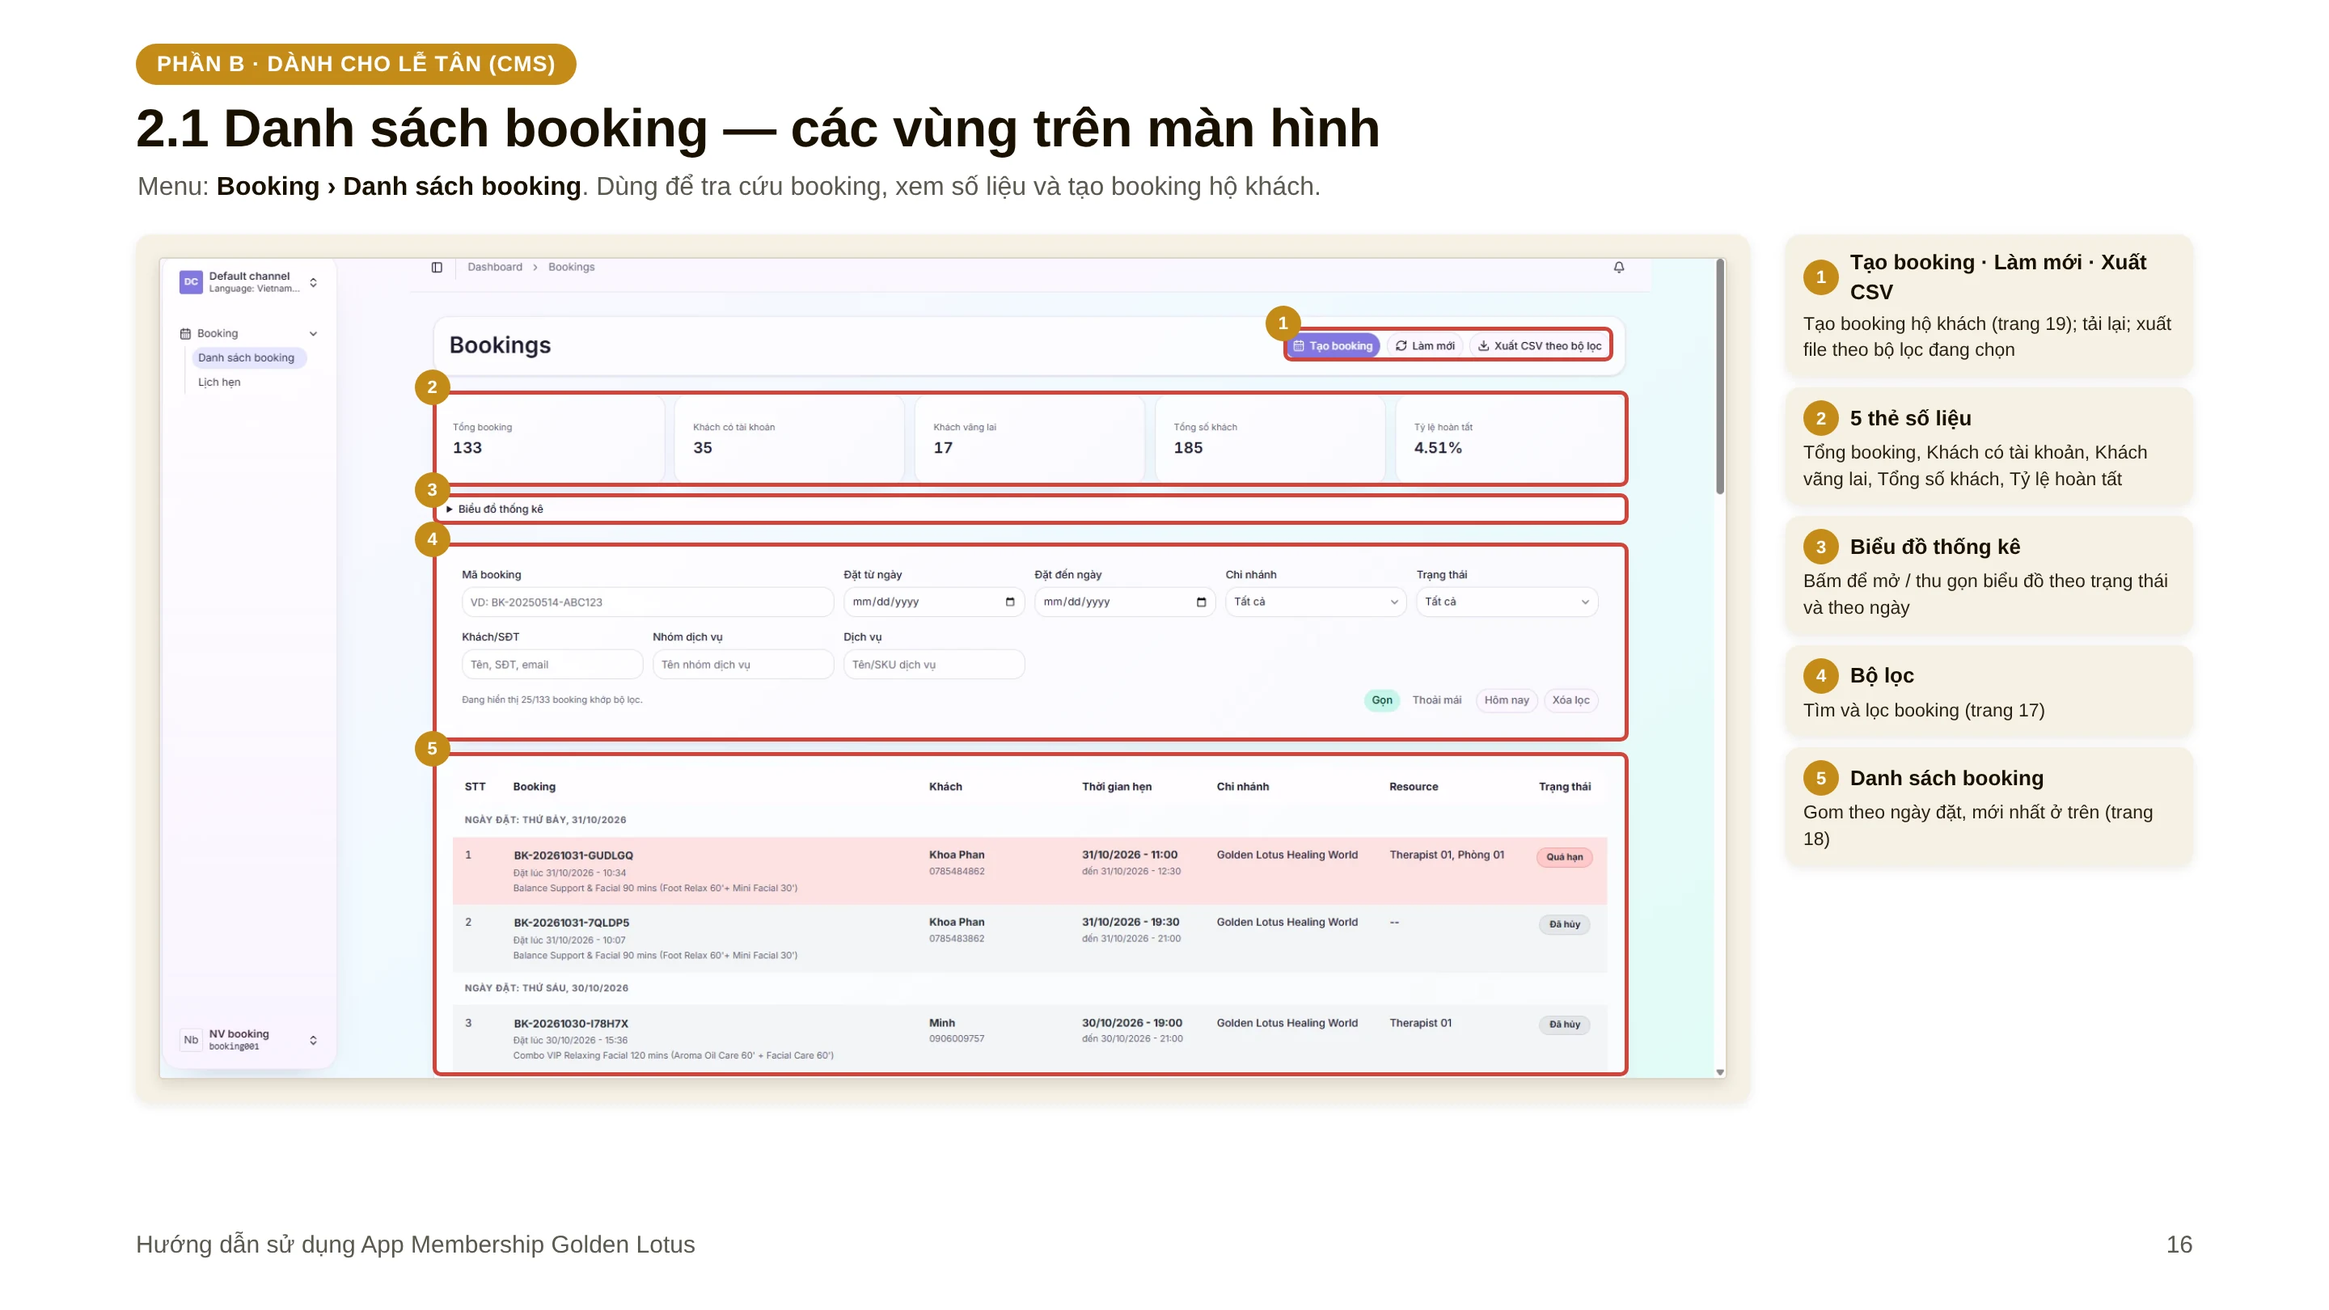
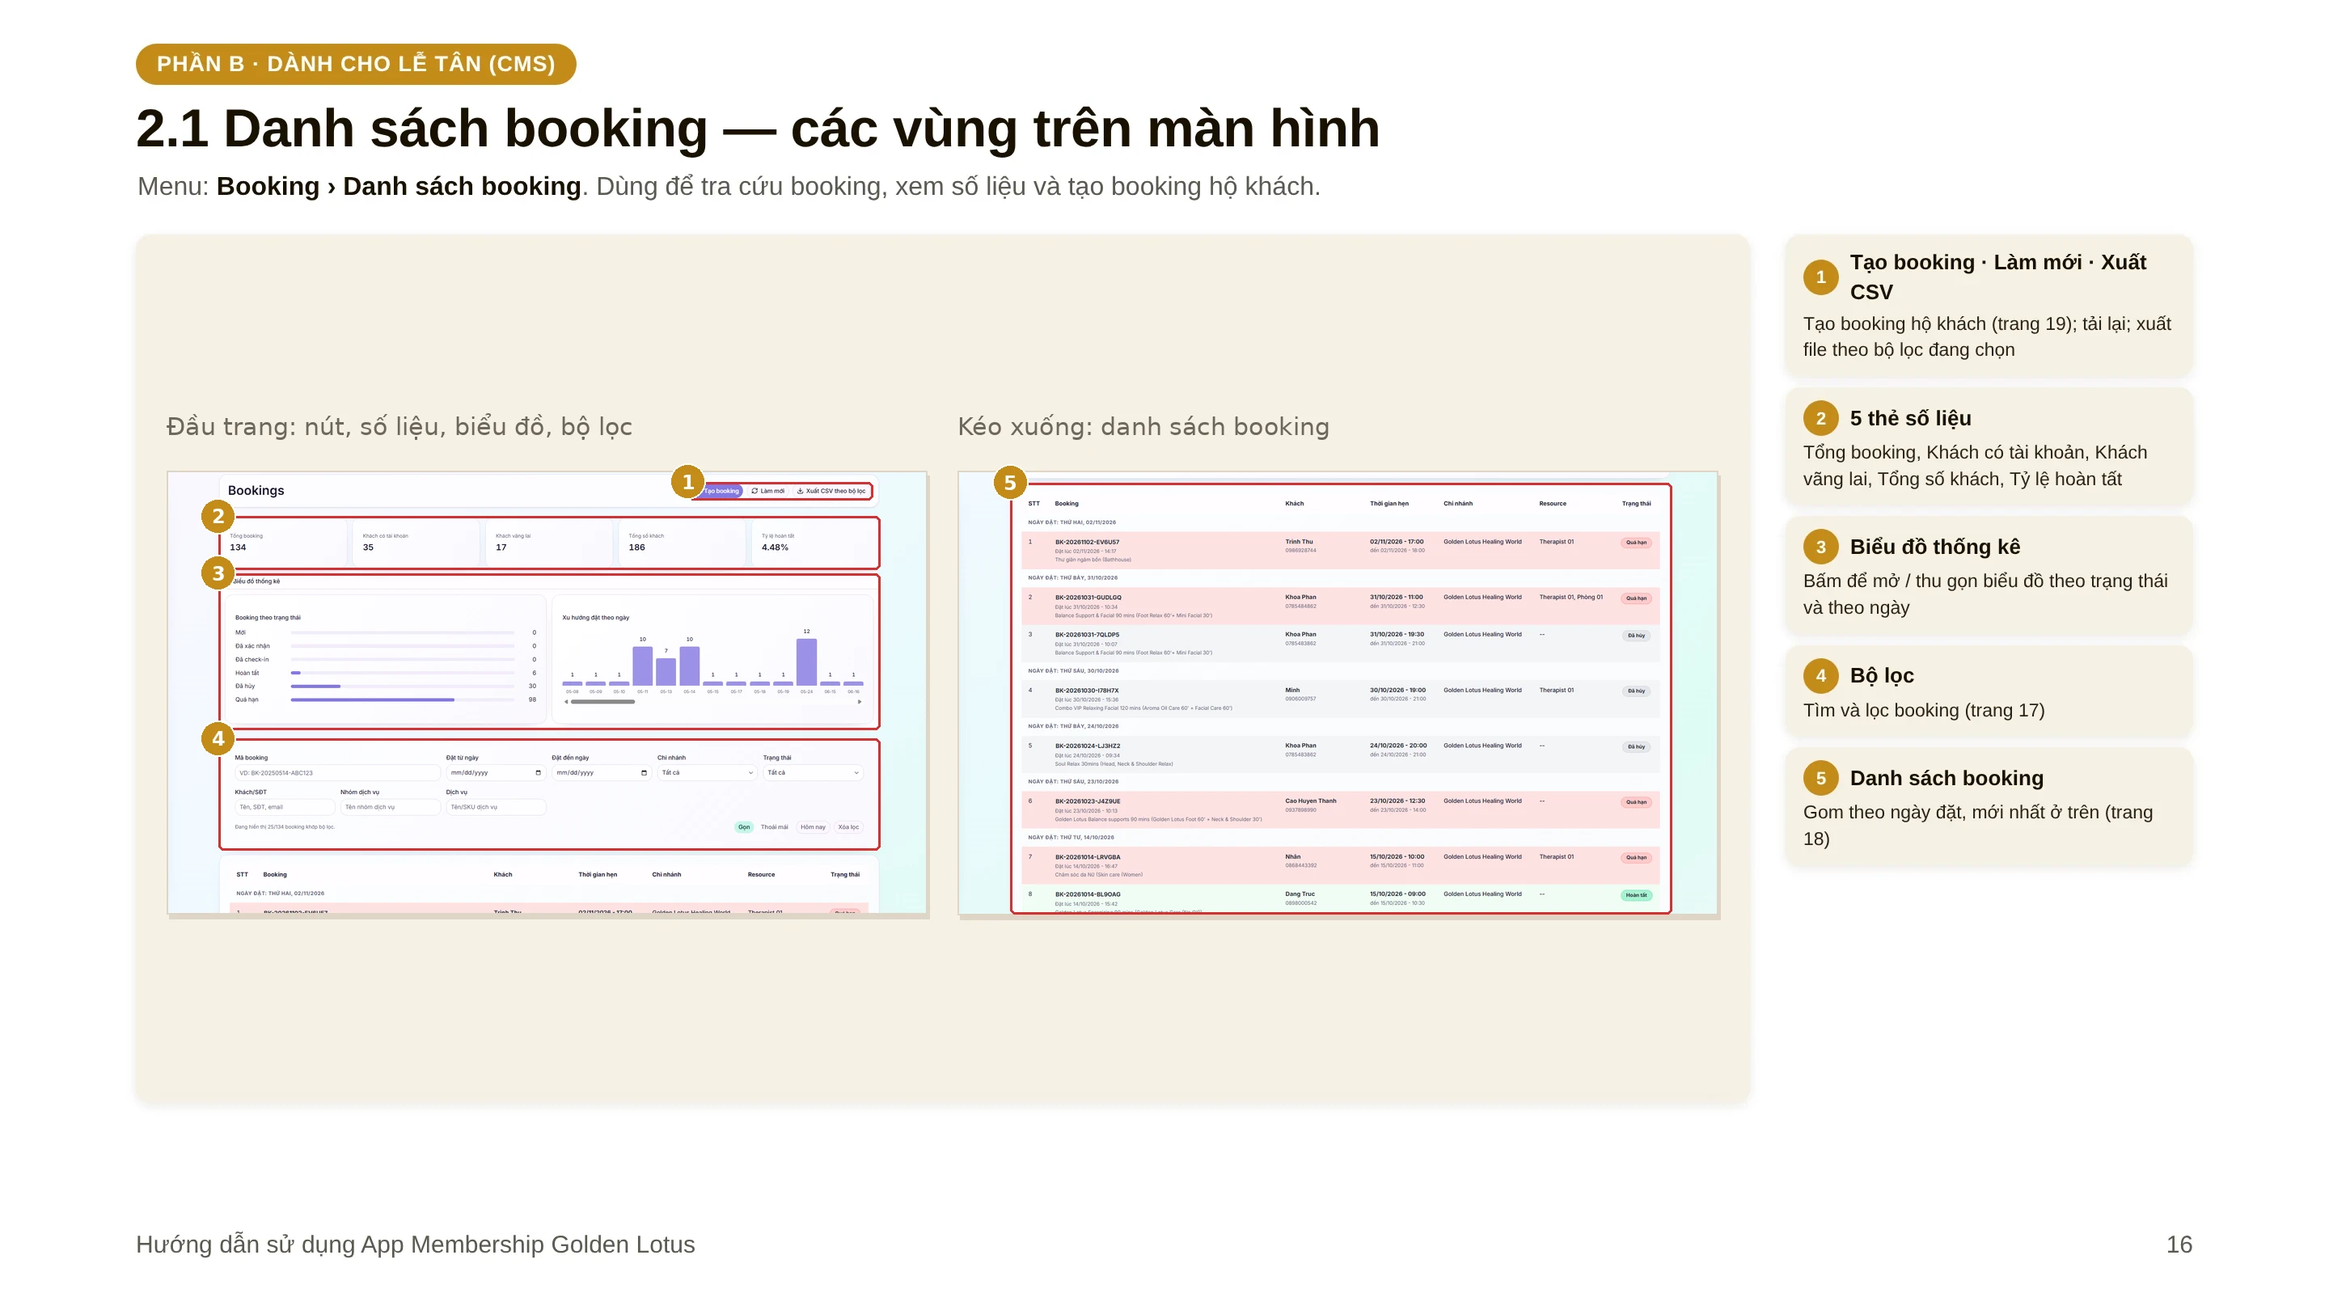
Slide 16: thay ảnh màn hình Danh sách booking bằng 2 ảnh mới (đầu trang + danh sách)
Claude-Session: https://claude.ai/code/session_01RoCCcE5aUAib2frrCe3aCP

Changed region(s): [[0.0625, 0.1852, 0.75, 0.8333]]

diff --git a/membership-guide/src/app.html b/membership-guide/src/app.html
@@ -60,7 +60,7 @@ const NM=["Đăng ký tài khoản / Đăng nhập","Tìm lại mật khẩu","T
 const TO=[2,4,5,6,7,9,11,12,13,14,15,18,19,21,30,25,26];
 const CARDS=[[5.83,20.56,16.77,18.52],[23.75,20.56,16.77,18.52],[41.67,20.56,16.77,18.52],[59.58,20.56,16.77,18.52],[77.5,20.56,16.77,18.52],[5.83,40.74,16.77,18.52],[23.75,40.74,16.77,18.52],[41.67,40.74,16.77,18.52],[59.58,40.74,16.77,18.52],[5.83,67.96,9.0,18.52],[15.83,67.96,9.0,18.52],[25.83,67.96,9.0,18.52],[35.83,67.96,9.0,18.52],[45.83,67.96,9.0,18.52],[55.83,67.96,9.0,18.52],[72.92,67.96,10.07,18.52],[84.1,67.96,10.07,18.52]];
 const HOT=NM.map((n,i)=>({l:CARDS[i][0],t:CARDS[i][1],w:CARDS[i][2],h:CARDS[i][3],to:TO[i],name:n}));
-const ZONES={"2":[[5.1,28.89,13.09,47.55],[20.44,30.07,13.09,45.19],[35.78,28.65,13.09,48.03],[51.11,36.07,13.09,33.19],[66.45,29.71,13.09,45.92],[81.79,29.75,13.09,45.84]],"3":[[10.98,26.93,15.01,54.53],[42.47,26.93,15.04,54.53],[74.51,26.93,13.96,54.53]],"4":[[5.1,36.35,10.9,32.63],[18.25,37.0,10.9,31.33],[31.39,36.99,10.9,31.36],[44.54,35.58,10.9,34.17],[57.69,39.79,10.9,25.76],[70.83,38.88,10.9,27.57],[83.98,35.28,10.9,34.78]],"5":[[5.9,26.93,14.55,53.47],[23.51,46.94,16.16,13.46],[41.91,32.44,16.16,42.45],[60.32,42.27,16.16,22.8],[79.84,26.93,13.92,53.47]],"6":[[11.09,26.93,14.79,54.53],[41.83,26.93,16.31,54.53],[68.21,37.44,26.55,33.52]],"7":[[5.1,32.86,10.9,39.62],[18.25,37.44,10.9,30.45],[31.39,34.51,10.9,36.32],[44.54,31.95,10.9,41.44],[59.23,26.93,7.81,51.47],[70.83,30.18,10.9,44.98],[83.98,28.28,10.9,48.78]],"8":[[7.41,26.93,15.23,53.47],[28.41,36.35,19.86,34.64],[51.71,31.14,19.86,45.06],[75.96,26.93,17.97,53.47]],"9":[[11.04,26.93,14.9,54.53],[42.62,26.93,14.74,54.53],[68.21,34.78,26.55,38.84]],"10":[[5.1,35.46,10.9,39.48],[18.25,35.15,10.9,40.11],[31.39,39.31,10.9,31.78],[44.54,42.79,10.9,24.82],[57.69,35.05,10.9,40.3],[70.83,39.31,10.9,31.78],[83.98,42.79,10.9,24.82]],"11":[[10.96,26.93,15.05,54.53],[42.43,26.93,15.11,54.53],[68.21,39.52,26.55,29.35]],"12":[[11.12,26.93,14.74,54.53],[42.28,26.93,15.42,54.53],[73.98,26.93,15.01,54.53]],"13":[[7.83,26.93,21.32,54.53],[39.73,26.93,20.51,54.53],[73.98,26.93,15.01,54.53]],"14":[[32.4,19.63,65.97,60.3,"lt_cms.webp",1836,942]],"15":[[6.81,19.63,67.36,62.76,"lt_ds.webp",1862,974]],"16":[[6.81,19.63,84.72,25.03,"lt_filter.webp",1420,234]],"17":[[6.81,19.63,76.39,37.38,"lt_table.webp",1420,389]],"18":[[6.81,19.63,34.03,30.15,"b_bk3.webp",1920,953],[6.81,57.31,34.03,30.15,"b_bk4.webp",1920,953]],"19":[[6.81,19.63,67.36,62.96,"lt_lh.webp",1854,973]],"20":[[6.81,19.63,64.03,11.6,"lh_top.webp",920,92],[6.81,38.89,64.03,40.93,"lh_grid.webp",1340,480]],"21":[[5.83,24.26,52.6,48.57],[60.42,63.89,19.79,25.7]],"22":[[5.83,24.26,54.69,56.16]],"23":[[5.83,24.26,61.46,47.39]],"24":[[6.81,19.63,40.97,36.28,"b_bk5.webp",1920,953],[51.67,19.63,40.97,36.28,"b_bk6.webp",1920,953]],"25":[[27.22,19.63,65.97,59.97,"kt_full.webp",1852,945]],"26":[[6.81,19.63,67.36,61.23,"kt_full.webp",1852,945]],"27":[[6.81,19.63,86.39,18.48,"kt_cards.webp",1430,170],[6.81,42.8,86.39,14.4,"kt_filter.webp",1430,132]],"28":[[6.81,19.63,84.72,42.65,"kt_table.webp",1390,392]],"29":[[6.81,19.63,84.72,42.65,"kt_table.webp",1390,392]],"31":[[7.08, 20.25, 18.06, 53.58, "pos_ph_00.jpg", 425, 652], [52.01, 20.25, 18.06, 53.58, "pos_ph_01.jpg", 416, 630]],"32":[[6.94, 20.0, 26.18, 40.74, "pos_ph_02.jpg", 478, 532], [36.88, 20.0, 26.18, 40.74, "pos_use_point_full.jpg", 1910, 1085], [66.81, 20.0, 26.18, 40.74, "pos_ph_03.jpg", 409, 655]],"33":[[6.94, 20.0, 26.18, 40.74, "pos_ph_04.jpg", 558, 868], [36.88, 20.0, 26.18, 40.74, "pos_ph_05.jpg", 552, 635], [66.81, 20.0, 26.18, 40.74, "pos_ph_06.jpg", 445, 654]],"36":[[6.94, 20.0, 26.18, 40.74, "pos_ph_07.jpg", 425, 652], [36.88, 20.0, 26.18, 40.74, "pos_ph_08.jpg", 416, 630], [66.81, 20.0, 26.18, 40.74, "pos_ph_09.jpg", 1758, 868]],"37":[[6.94, 20.0, 26.18, 40.74, "pos_ph_10.jpg", 506, 848], [36.88, 20.0, 26.18, 40.74, "pos_ph_11.jpg", 987, 862], [66.81, 20.0, 26.18, 40.74, "pos_ph_12.jpg", 2048, 939]],"38":[[6.94, 20.0, 33.89, 37.04, "pos_ph_13.jpg", 935, 646]],"39":[[6.67, 19.51, 34.44, 61.23, "pos_huy_phieu.jpg", 1000, 975]]};
+const ZONES={"2":[[5.1,28.89,13.09,47.55],[20.44,30.07,13.09,45.19],[35.78,28.65,13.09,48.03],[51.11,36.07,13.09,33.19],[66.45,29.71,13.09,45.92],[81.79,29.75,13.09,45.84]],"3":[[10.98,26.93,15.01,54.53],[42.47,26.93,15.04,54.53],[74.51,26.93,13.96,54.53]],"4":[[5.1,36.35,10.9,32.63],[18.25,37.0,10.9,31.33],[31.39,36.99,10.9,31.36],[44.54,35.58,10.9,34.17],[57.69,39.79,10.9,25.76],[70.83,38.88,10.9,27.57],[83.98,35.28,10.9,34.78]],"5":[[5.9,26.93,14.55,53.47],[23.51,46.94,16.16,13.46],[41.91,32.44,16.16,42.45],[60.32,42.27,16.16,22.8],[79.84,26.93,13.92,53.47]],"6":[[11.09,26.93,14.79,54.53],[41.83,26.93,16.31,54.53],[68.21,37.44,26.55,33.52]],"7":[[5.1,32.86,10.9,39.62],[18.25,37.44,10.9,30.45],[31.39,34.51,10.9,36.32],[44.54,31.95,10.9,41.44],[59.23,26.93,7.81,51.47],[70.83,30.18,10.9,44.98],[83.98,28.28,10.9,48.78]],"8":[[7.41,26.93,15.23,53.47],[28.41,36.35,19.86,34.64],[51.71,31.14,19.86,45.06],[75.96,26.93,17.97,53.47]],"9":[[11.04,26.93,14.9,54.53],[42.62,26.93,14.74,54.53],[68.21,34.78,26.55,38.84]],"10":[[5.1,35.46,10.9,39.48],[18.25,35.15,10.9,40.11],[31.39,39.31,10.9,31.78],[44.54,42.79,10.9,24.82],[57.69,35.05,10.9,40.3],[70.83,39.31,10.9,31.78],[83.98,42.79,10.9,24.82]],"11":[[10.96,26.93,15.05,54.53],[42.43,26.93,15.11,54.53],[68.21,39.52,26.55,29.35]],"12":[[11.12,26.93,14.74,54.53],[42.28,26.93,15.42,54.53],[73.98,26.93,15.01,54.53]],"13":[[7.83,26.93,21.32,54.53],[39.73,26.93,20.51,54.53],[73.98,26.93,15.01,54.53]],"14":[[32.4,19.63,65.97,60.3,"lt_cms.webp",1836,942]],"15":[[7.15,35.93,32.64,33.83,"lt_ds1.webp",1686,1004],[41.11,35.93,32.64,33.83,"lt_ds2.webp",1687,1006]],"16":[[6.81,19.63,84.72,25.03,"lt_filter.webp",1420,234]],"17":[[6.81,19.63,76.39,37.38,"lt_table.webp",1420,389]],"18":[[6.81,19.63,34.03,30.15,"b_bk3.webp",1920,953],[6.81,57.31,34.03,30.15,"b_bk4.webp",1920,953]],"19":[[6.81,19.63,67.36,62.96,"lt_lh.webp",1854,973]],"20":[[6.81,19.63,64.03,11.6,"lh_top.webp",920,92],[6.81,38.89,64.03,40.93,"lh_grid.webp",1340,480]],"21":[[5.83,24.26,52.6,48.57],[60.42,63.89,19.79,25.7]],"22":[[5.83,24.26,54.69,56.16]],"23":[[5.83,24.26,61.46,47.39]],"24":[[6.81,19.63,40.97,36.28,"b_bk5.webp",1920,953],[51.67,19.63,40.97,36.28,"b_bk6.webp",1920,953]],"25":[[27.22,19.63,65.97,59.97,"kt_full.webp",1852,945]],"26":[[6.81,19.63,67.36,61.23,"kt_full.webp",1852,945]],"27":[[6.81,19.63,86.39,18.48,"kt_cards.webp",1430,170],[6.81,42.8,86.39,14.4,"kt_filter.webp",1430,132]],"28":[[6.81,19.63,84.72,42.65,"kt_table.webp",1390,392]],"29":[[6.81,19.63,84.72,42.65,"kt_table.webp",1390,392]],"31":[[7.08, 20.25, 18.06, 53.58, "pos_ph_00.jpg", 425, 652], [52.01, 20.25, 18.06, 53.58, "pos_ph_01.jpg", 416, 630]],"32":[[6.94, 20.0, 26.18, 40.74, "pos_ph_02.jpg", 478, 532], [36.88, 20.0, 26.18, 40.74, "pos_use_point_full.jpg", 1910, 1085], [66.81, 20.0, 26.18, 40.74, "pos_ph_03.jpg", 409, 655]],"33":[[6.94, 20.0, 26.18, 40.74, "pos_ph_04.jpg", 558, 868], [36.88, 20.0, 26.18, 40.74, "pos_ph_05.jpg", 552, 635], [66.81, 20.0, 26.18, 40.74, "pos_ph_06.jpg", 445, 654]],"36":[[6.94, 20.0, 26.18, 40.74, "pos_ph_07.jpg", 425, 652], [36.88, 20.0, 26.18, 40.74, "pos_ph_08.jpg", 416, 630], [66.81, 20.0, 26.18, 40.74, "pos_ph_09.jpg", 1758, 868]],"37":[[6.94, 20.0, 26.18, 40.74, "pos_ph_10.jpg", 506, 848], [36.88, 20.0, 26.18, 40.74, "pos_ph_11.jpg", 987, 862], [66.81, 20.0, 26.18, 40.74, "pos_ph_12.jpg", 2048, 939]],"38":[[6.94, 20.0, 33.89, 37.04, "pos_ph_13.jpg", 935, 646]],"39":[[6.67, 19.51, 34.44, 61.23, "pos_huy_phieu.jpg", 1000, 975]]};
 const SIZES=[148518,242384,443017,373956,424631,517810,395477,518151,401313,393800,597413,375189,449216,393479,329762];
 let IMGS=[];
 const img=document.getElementById('img'),slide=document.getElementById('slide');

diff --git a/membership-guide/src/index.html b/membership-guide/src/index.html
@@ -60,7 +60,7 @@ const NM=["Đăng ký tài khoản / Đăng nhập","Tìm lại mật khẩu","T
 const TO=[2,4,5,6,7,9,11,12,13,14,15,18,19,21,30,25,26];
 const CARDS=[[5.83,20.56,16.77,18.52],[23.75,20.56,16.77,18.52],[41.67,20.56,16.77,18.52],[59.58,20.56,16.77,18.52],[77.5,20.56,16.77,18.52],[5.83,40.74,16.77,18.52],[23.75,40.74,16.77,18.52],[41.67,40.74,16.77,18.52],[59.58,40.74,16.77,18.52],[5.83,67.96,9.0,18.52],[15.83,67.96,9.0,18.52],[25.83,67.96,9.0,18.52],[35.83,67.96,9.0,18.52],[45.83,67.96,9.0,18.52],[55.83,67.96,9.0,18.52],[72.92,67.96,10.07,18.52],[84.1,67.96,10.07,18.52]];
 const HOT=NM.map((n,i)=>({l:CARDS[i][0],t:CARDS[i][1],w:CARDS[i][2],h:CARDS[i][3],to:TO[i],name:n}));
-const ZONES={"2":[[5.1,28.89,13.09,47.55],[20.44,30.07,13.09,45.19],[35.78,28.65,13.09,48.03],[51.11,36.07,13.09,33.19],[66.45,29.71,13.09,45.92],[81.79,29.75,13.09,45.84]],"3":[[10.98,26.93,15.01,54.53],[42.47,26.93,15.04,54.53],[74.51,26.93,13.96,54.53]],"4":[[5.1,36.35,10.9,32.63],[18.25,37.0,10.9,31.33],[31.39,36.99,10.9,31.36],[44.54,35.58,10.9,34.17],[57.69,39.79,10.9,25.76],[70.83,38.88,10.9,27.57],[83.98,35.28,10.9,34.78]],"5":[[5.9,26.93,14.55,53.47],[23.51,46.94,16.16,13.46],[41.91,32.44,16.16,42.45],[60.32,42.27,16.16,22.8],[79.84,26.93,13.92,53.47]],"6":[[11.09,26.93,14.79,54.53],[41.83,26.93,16.31,54.53],[68.21,37.44,26.55,33.52]],"7":[[5.1,32.86,10.9,39.62],[18.25,37.44,10.9,30.45],[31.39,34.51,10.9,36.32],[44.54,31.95,10.9,41.44],[59.23,26.93,7.81,51.47],[70.83,30.18,10.9,44.98],[83.98,28.28,10.9,48.78]],"8":[[7.41,26.93,15.23,53.47],[28.41,36.35,19.86,34.64],[51.71,31.14,19.86,45.06],[75.96,26.93,17.97,53.47]],"9":[[11.04,26.93,14.9,54.53],[42.62,26.93,14.74,54.53],[68.21,34.78,26.55,38.84]],"10":[[5.1,35.46,10.9,39.48],[18.25,35.15,10.9,40.11],[31.39,39.31,10.9,31.78],[44.54,42.79,10.9,24.82],[57.69,35.05,10.9,40.3],[70.83,39.31,10.9,31.78],[83.98,42.79,10.9,24.82]],"11":[[10.96,26.93,15.05,54.53],[42.43,26.93,15.11,54.53],[68.21,39.52,26.55,29.35]],"12":[[11.12,26.93,14.74,54.53],[42.28,26.93,15.42,54.53],[73.98,26.93,15.01,54.53]],"13":[[7.83,26.93,21.32,54.53],[39.73,26.93,20.51,54.53],[73.98,26.93,15.01,54.53]],"14":[[32.4,19.63,65.97,60.3,"lt_cms.webp",1836,942]],"15":[[6.81,19.63,67.36,62.76,"lt_ds.webp",1862,974]],"16":[[6.81,19.63,84.72,25.03,"lt_filter.webp",1420,234]],"17":[[6.81,19.63,76.39,37.38,"lt_table.webp",1420,389]],"18":[[6.81,19.63,34.03,30.15,"b_bk3.webp",1920,953],[6.81,57.31,34.03,30.15,"b_bk4.webp",1920,953]],"19":[[6.81,19.63,67.36,62.96,"lt_lh.webp",1854,973]],"20":[[6.81,19.63,64.03,11.6,"lh_top.webp",920,92],[6.81,38.89,64.03,40.93,"lh_grid.webp",1340,480]],"21":[[5.83,24.26,52.6,48.57],[60.42,63.89,19.79,25.7]],"22":[[5.83,24.26,54.69,56.16]],"23":[[5.83,24.26,61.46,47.39]],"24":[[6.81,19.63,40.97,36.28,"b_bk5.webp",1920,953],[51.67,19.63,40.97,36.28,"b_bk6.webp",1920,953]],"25":[[27.22,19.63,65.97,59.97,"kt_full.webp",1852,945]],"26":[[6.81,19.63,67.36,61.23,"kt_full.webp",1852,945]],"27":[[6.81,19.63,86.39,18.48,"kt_cards.webp",1430,170],[6.81,42.8,86.39,14.4,"kt_filter.webp",1430,132]],"28":[[6.81,19.63,84.72,42.65,"kt_table.webp",1390,392]],"29":[[6.81,19.63,84.72,42.65,"kt_table.webp",1390,392]],"31":[[7.08, 20.25, 18.06, 53.58, "pos_ph_00.jpg", 425, 652], [52.01, 20.25, 18.06, 53.58, "pos_ph_01.jpg", 416, 630]],"32":[[6.94, 20.0, 26.18, 40.74, "pos_ph_02.jpg", 478, 532], [36.88, 20.0, 26.18, 40.74, "pos_use_point_full.jpg", 1910, 1085], [66.81, 20.0, 26.18, 40.74, "pos_ph_03.jpg", 409, 655]],"33":[[6.94, 20.0, 26.18, 40.74, "pos_ph_04.jpg", 558, 868], [36.88, 20.0, 26.18, 40.74, "pos_ph_05.jpg", 552, 635], [66.81, 20.0, 26.18, 40.74, "pos_ph_06.jpg", 445, 654]],"36":[[6.94, 20.0, 26.18, 40.74, "pos_ph_07.jpg", 425, 652], [36.88, 20.0, 26.18, 40.74, "pos_ph_08.jpg", 416, 630], [66.81, 20.0, 26.18, 40.74, "pos_ph_09.jpg", 1758, 868]],"37":[[6.94, 20.0, 26.18, 40.74, "pos_ph_10.jpg", 506, 848], [36.88, 20.0, 26.18, 40.74, "pos_ph_11.jpg", 987, 862], [66.81, 20.0, 26.18, 40.74, "pos_ph_12.jpg", 2048, 939]],"38":[[6.94, 20.0, 33.89, 37.04, "pos_ph_13.jpg", 935, 646]],"39":[[6.67, 19.51, 34.44, 61.23, "pos_huy_phieu.jpg", 1000, 975]]};
+const ZONES={"2":[[5.1,28.89,13.09,47.55],[20.44,30.07,13.09,45.19],[35.78,28.65,13.09,48.03],[51.11,36.07,13.09,33.19],[66.45,29.71,13.09,45.92],[81.79,29.75,13.09,45.84]],"3":[[10.98,26.93,15.01,54.53],[42.47,26.93,15.04,54.53],[74.51,26.93,13.96,54.53]],"4":[[5.1,36.35,10.9,32.63],[18.25,37.0,10.9,31.33],[31.39,36.99,10.9,31.36],[44.54,35.58,10.9,34.17],[57.69,39.79,10.9,25.76],[70.83,38.88,10.9,27.57],[83.98,35.28,10.9,34.78]],"5":[[5.9,26.93,14.55,53.47],[23.51,46.94,16.16,13.46],[41.91,32.44,16.16,42.45],[60.32,42.27,16.16,22.8],[79.84,26.93,13.92,53.47]],"6":[[11.09,26.93,14.79,54.53],[41.83,26.93,16.31,54.53],[68.21,37.44,26.55,33.52]],"7":[[5.1,32.86,10.9,39.62],[18.25,37.44,10.9,30.45],[31.39,34.51,10.9,36.32],[44.54,31.95,10.9,41.44],[59.23,26.93,7.81,51.47],[70.83,30.18,10.9,44.98],[83.98,28.28,10.9,48.78]],"8":[[7.41,26.93,15.23,53.47],[28.41,36.35,19.86,34.64],[51.71,31.14,19.86,45.06],[75.96,26.93,17.97,53.47]],"9":[[11.04,26.93,14.9,54.53],[42.62,26.93,14.74,54.53],[68.21,34.78,26.55,38.84]],"10":[[5.1,35.46,10.9,39.48],[18.25,35.15,10.9,40.11],[31.39,39.31,10.9,31.78],[44.54,42.79,10.9,24.82],[57.69,35.05,10.9,40.3],[70.83,39.31,10.9,31.78],[83.98,42.79,10.9,24.82]],"11":[[10.96,26.93,15.05,54.53],[42.43,26.93,15.11,54.53],[68.21,39.52,26.55,29.35]],"12":[[11.12,26.93,14.74,54.53],[42.28,26.93,15.42,54.53],[73.98,26.93,15.01,54.53]],"13":[[7.83,26.93,21.32,54.53],[39.73,26.93,20.51,54.53],[73.98,26.93,15.01,54.53]],"14":[[32.4,19.63,65.97,60.3,"lt_cms.webp",1836,942]],"15":[[7.15,35.93,32.64,33.83,"lt_ds1.webp",1686,1004],[41.11,35.93,32.64,33.83,"lt_ds2.webp",1687,1006]],"16":[[6.81,19.63,84.72,25.03,"lt_filter.webp",1420,234]],"17":[[6.81,19.63,76.39,37.38,"lt_table.webp",1420,389]],"18":[[6.81,19.63,34.03,30.15,"b_bk3.webp",1920,953],[6.81,57.31,34.03,30.15,"b_bk4.webp",1920,953]],"19":[[6.81,19.63,67.36,62.96,"lt_lh.webp",1854,973]],"20":[[6.81,19.63,64.03,11.6,"lh_top.webp",920,92],[6.81,38.89,64.03,40.93,"lh_grid.webp",1340,480]],"21":[[5.83,24.26,52.6,48.57],[60.42,63.89,19.79,25.7]],"22":[[5.83,24.26,54.69,56.16]],"23":[[5.83,24.26,61.46,47.39]],"24":[[6.81,19.63,40.97,36.28,"b_bk5.webp",1920,953],[51.67,19.63,40.97,36.28,"b_bk6.webp",1920,953]],"25":[[27.22,19.63,65.97,59.97,"kt_full.webp",1852,945]],"26":[[6.81,19.63,67.36,61.23,"kt_full.webp",1852,945]],"27":[[6.81,19.63,86.39,18.48,"kt_cards.webp",1430,170],[6.81,42.8,86.39,14.4,"kt_filter.webp",1430,132]],"28":[[6.81,19.63,84.72,42.65,"kt_table.webp",1390,392]],"29":[[6.81,19.63,84.72,42.65,"kt_table.webp",1390,392]],"31":[[7.08, 20.25, 18.06, 53.58, "pos_ph_00.jpg", 425, 652], [52.01, 20.25, 18.06, 53.58, "pos_ph_01.jpg", 416, 630]],"32":[[6.94, 20.0, 26.18, 40.74, "pos_ph_02.jpg", 478, 532], [36.88, 20.0, 26.18, 40.74, "pos_use_point_full.jpg", 1910, 1085], [66.81, 20.0, 26.18, 40.74, "pos_ph_03.jpg", 409, 655]],"33":[[6.94, 20.0, 26.18, 40.74, "pos_ph_04.jpg", 558, 868], [36.88, 20.0, 26.18, 40.74, "pos_ph_05.jpg", 552, 635], [66.81, 20.0, 26.18, 40.74, "pos_ph_06.jpg", 445, 654]],"36":[[6.94, 20.0, 26.18, 40.74, "pos_ph_07.jpg", 425, 652], [36.88, 20.0, 26.18, 40.74, "pos_ph_08.jpg", 416, 630], [66.81, 20.0, 26.18, 40.74, "pos_ph_09.jpg", 1758, 868]],"37":[[6.94, 20.0, 26.18, 40.74, "pos_ph_10.jpg", 506, 848], [36.88, 20.0, 26.18, 40.74, "pos_ph_11.jpg", 987, 862], [66.81, 20.0, 26.18, 40.74, "pos_ph_12.jpg", 2048, 939]],"38":[[6.94, 20.0, 33.89, 37.04, "pos_ph_13.jpg", 935, 646]],"39":[[6.67, 19.51, 34.44, 61.23, "pos_huy_phieu.jpg", 1000, 975]]};
 const SIZES=[148518,242384,443017,373956,424631,517810,395477,518151,401313,393800,597413,375189,449216,393479,329762];
 let IMGS=[];
 const img=document.getElementById('img'),slide=document.getElementById('slide');
